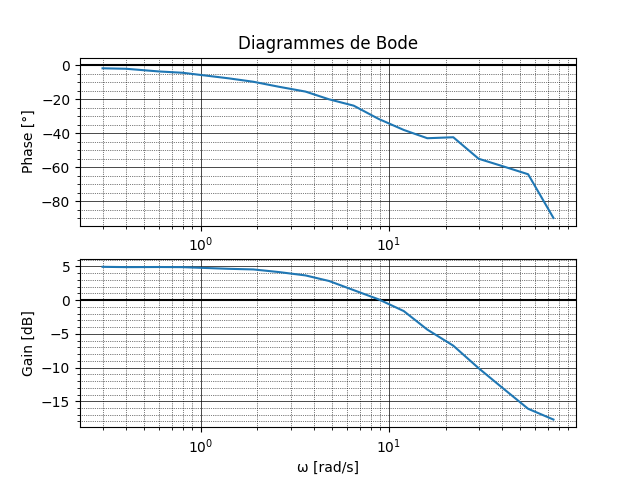
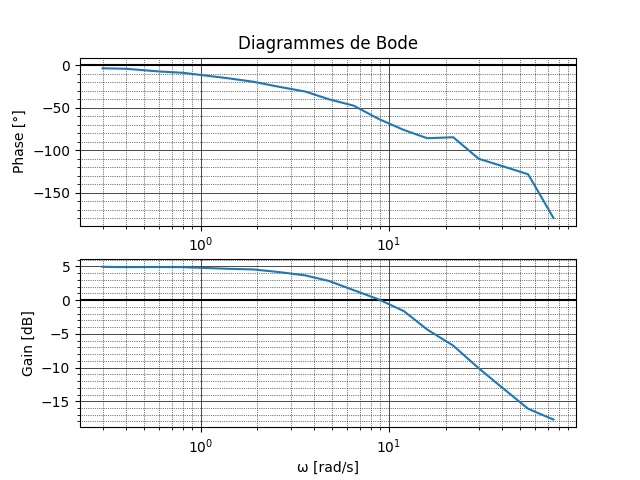
correction in rad2deg conversion

Changed region(s): [[0.0, 0.1875, 0.125, 0.4375]]

diff --git a/scl/lab1.py b/scl/lab1.py
@@ -75,7 +75,8 @@ fig4.savefig('Nyquist')
 # Setting important variables: gain and phase
 ampl_y = np.array(ampl_y)
 gain = 20 * np.log10(ampl_y / ampl_u)
-phase = (np.array(phase))*180/2/np.pi
+# phase = (np.array(phase))*180/2/np.pi
+phase = np.degrees(phase)
 
 # Bode diagrams (Phase & gain)
 fig2, (ax1, ax2) = mpl.subplots(2, 1)
@@ -110,6 +111,6 @@ ax3.set_xlabel('Phase [\u00B0]')
 ax3.set_ylabel("Gain [dB]")
 fig3.savefig('Black')
 
-# Show figures
+"""# Show figures
 mpl.tight_layout()
-# mpl.show()
+mpl.show()"""
